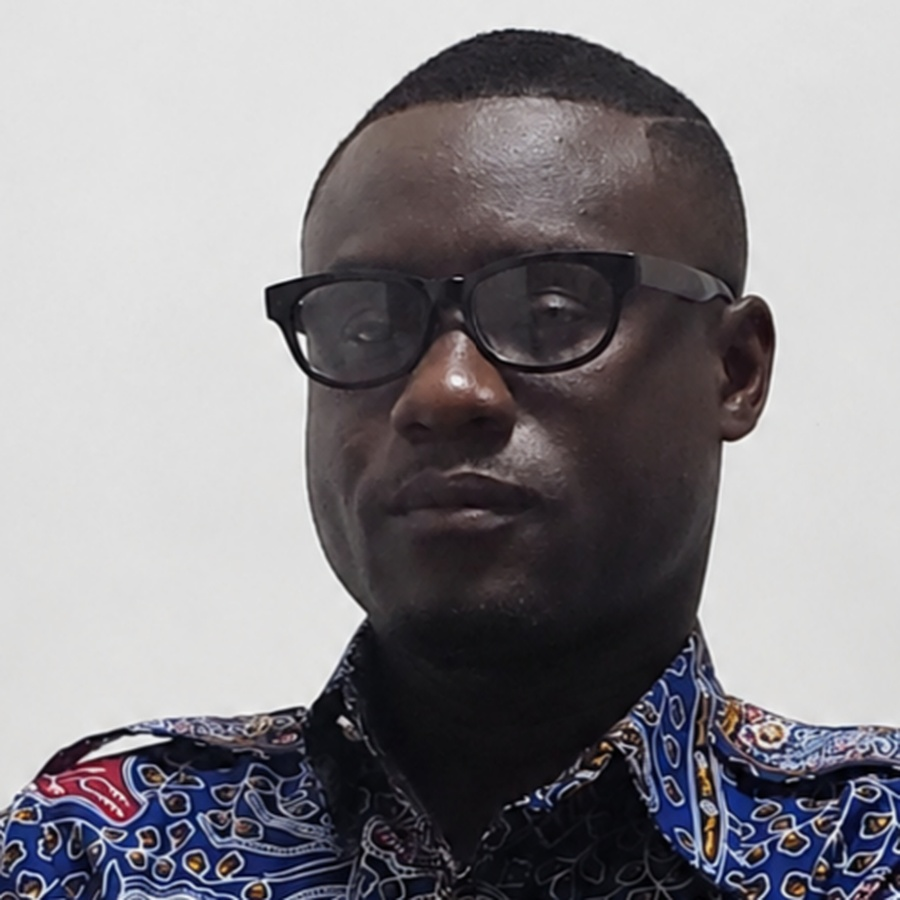
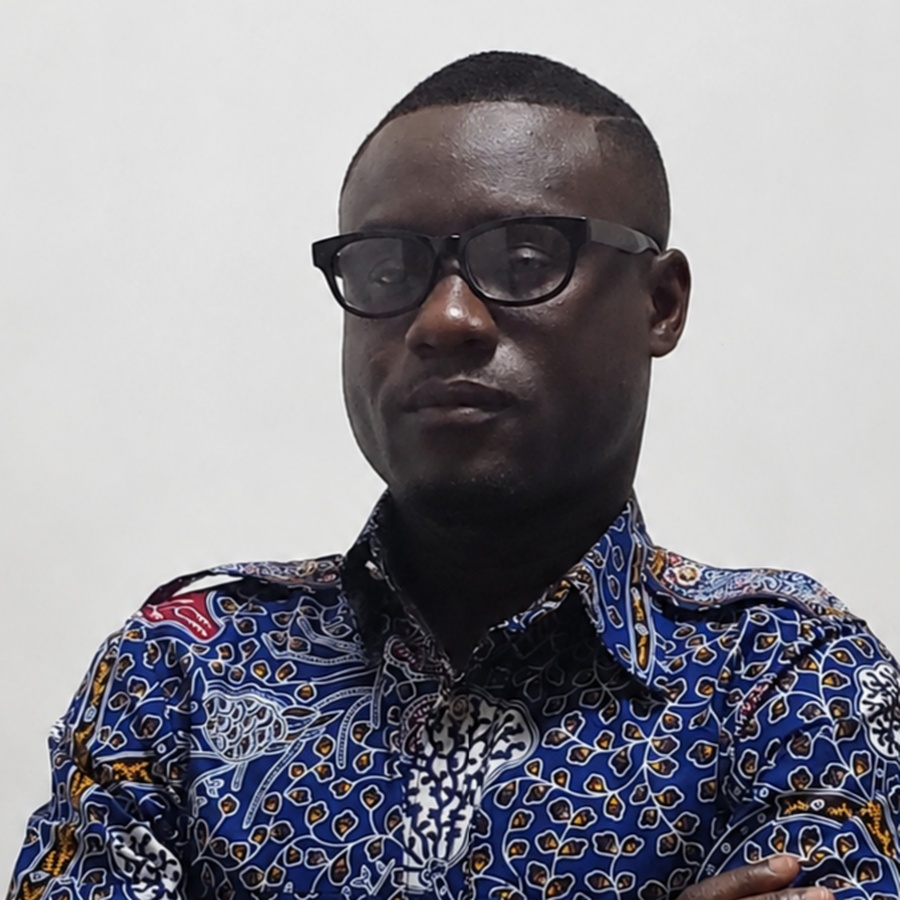
Enlarge founder photo boxes within the same card width.

diff --git a/index.html b/index.html
@@ -11,7 +11,7 @@
   <link rel="preconnect" href="https://fonts.googleapis.com">
   <link rel="preconnect" href="https://fonts.gstatic.com" crossorigin>
   <link href="https://fonts.googleapis.com/css2?family=Lato:wght@300;400;700;900&family=Oswald:wght@400;500;600;700&display=swap" rel="stylesheet">
-  <link rel="stylesheet" href="assets/genehus.css?v=20260801aq">
+  <link rel="stylesheet" href="assets/genehus.css?v=20260801ar">
   <meta http-equiv="Cache-Control" content="no-cache">
 </head>
 <body>
@@ -288,7 +288,7 @@
       <p class="team-label" id="founders">Founders</p>
       <div class="founder-grid">
         <article class="person-card">
-          <img class="person-photo" src="assets/founder-nana.jpg?v=5" alt="Nana Safo Duker" width="580" height="580" loading="lazy" decoding="async">
+          <img class="person-photo" src="assets/founder-nana.jpg?v=6" alt="Nana Safo Duker" width="760" height="760" loading="lazy" decoding="async">
           <h3>Nana Safo Duker</h3>
           <p class="person-role">Co-Founder &amp; CEO</p>
           <a class="person-link" href="https://nana-safo-duker.github.io/" target="_blank" rel="noopener">Website</a>

diff --git a/assets/genehus.css b/assets/genehus.css
@@ -903,8 +903,10 @@ ol {
 }
 
 .person-photo {
-  width: 290px;
-  height: 290px;
+  width: 100%;
+  max-width: 380px;
+  aspect-ratio: 1;
+  height: auto;
   border-radius: 0;
   object-fit: cover;
   object-position: center center;
